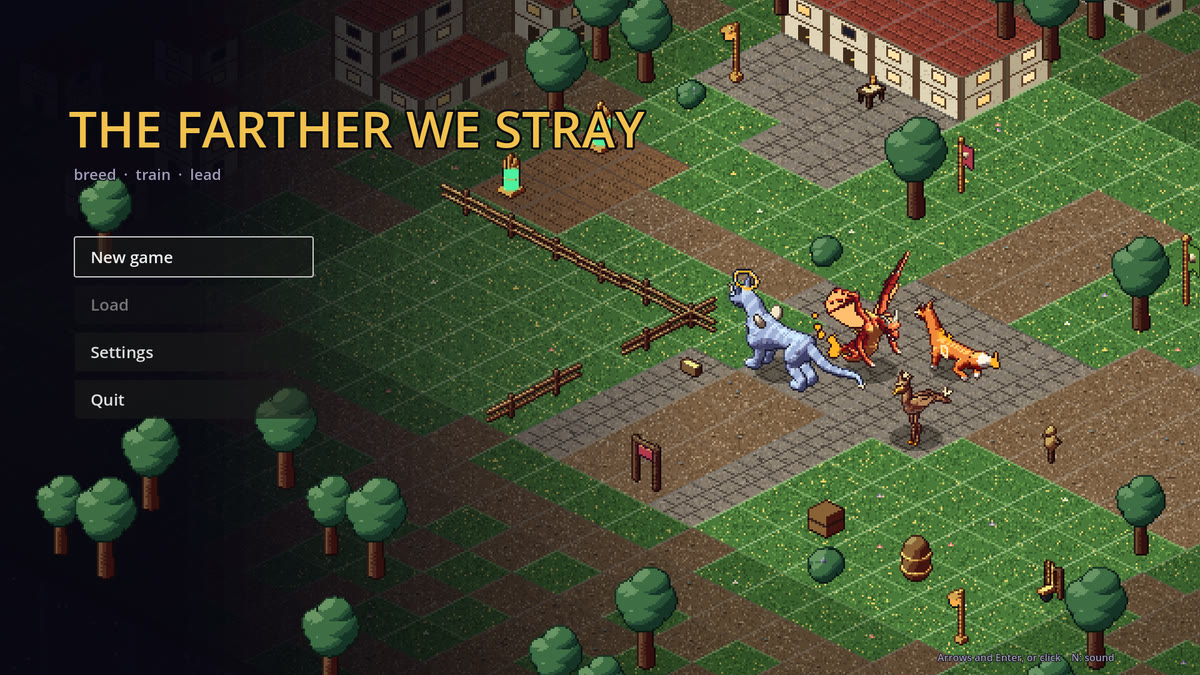
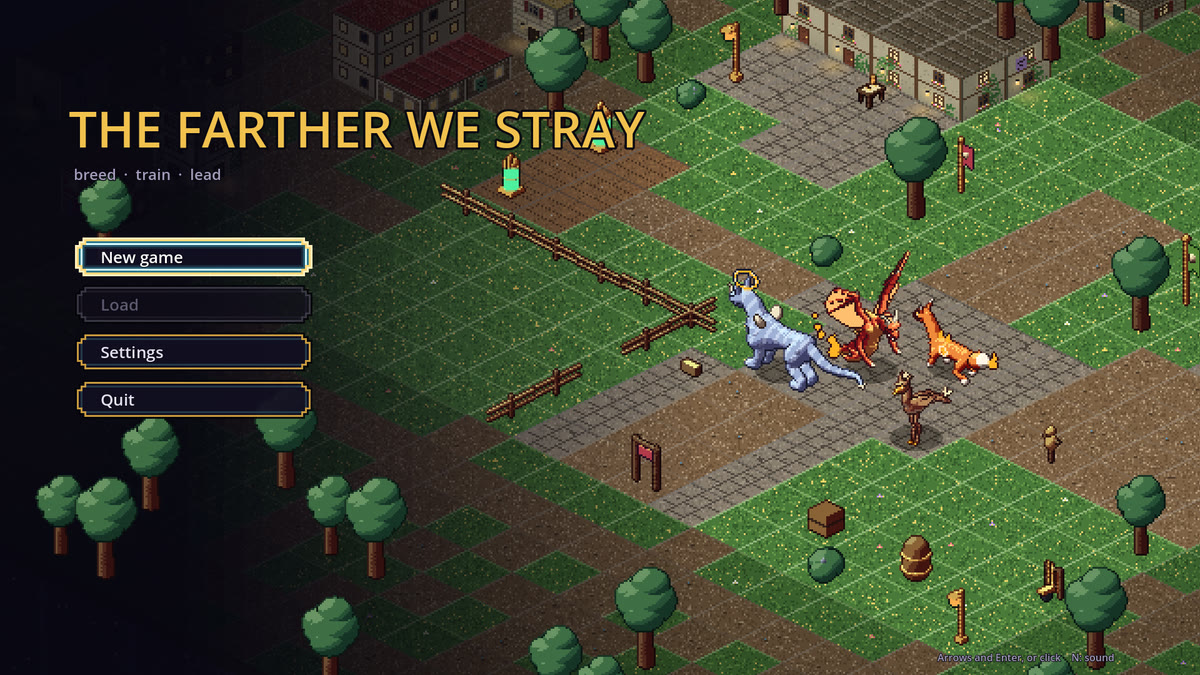
The Farther We Stray downloads for Windows too
Version 0.2.0 adds a Windows build: the page gets a Windows button (first on a computer, the
Android one first on a phone), steps for unzipping and running it, and the sizes of both. A
download the newest release lacks says it's coming. The title picture shows the new menus.

diff --git a/public/the-farther-we-stray/download/index.html b/public/the-farther-we-stray/download/index.html
@@ -6,14 +6,14 @@
     <title>Download The Farther We Stray</title>
     <meta
       name="description"
-      content="Download The Farther We Stray, a turn-based tactics game where you catch strays and breed, train and lead your beasts. Free, for Android."
+      content="Download The Farther We Stray, a turn-based tactics game where you catch strays and breed, train and lead your beasts. Free, for Windows and Android."
     />
 
     <!-- The link preview, for chat apps. -->
     <meta property="og:title" content="Play The Farther We Stray" />
     <meta
       property="og:description"
-      content="Catch strays, breed and train your beasts, and lead them into battle. A free tactics game for Android."
+      content="Catch strays, breed and train your beasts, and lead them into battle. A free tactics game for Windows and Android."
     />
     <meta property="og:type" content="website" />
     <meta property="og:url" content="https://ecec.dev/the-farther-we-stray/download" />
@@ -30,7 +30,7 @@
     <meta name="twitter:title" content="Play The Farther We Stray" />
     <meta
       name="twitter:description"
-      content="Catch strays, breed and train your beasts, and lead them into battle. A free tactics game for Android."
+      content="Catch strays, breed and train your beasts, and lead them into battle. A free tactics game for Windows and Android."
     />
     <meta
       name="twitter:image"
@@ -162,6 +162,20 @@
         outline: 3px solid var(--glow);
         outline-offset: 3px;
       }
+      /* The second platform's button: the same shape in the game's chem glow, so the two read
+         as a pair and neither looks like the "real" one. */
+      .big.second {
+        color: #062a33;
+        background: var(--glow);
+        border-color: #062a33;
+        box-shadow: 0 5px 0 #1a8fa8;
+      }
+      .big.second:hover {
+        box-shadow: 0 6px 0 #1a8fa8;
+      }
+      .big.second:active {
+        box-shadow: 0 1px 0 #1a8fa8;
+      }
       .big.soon {
         background: var(--card);
         color: var(--soft);
@@ -174,7 +188,7 @@
         font-size: 0.88rem;
         margin: 0 0 30px;
       }
-      /* Shown on a computer: the game is a phone app, so say where to open this page. */
+      /* Shown on anything that isn't Windows or Android (a Mac, an iPhone): say what it runs on. */
       .elsewhere {
         text-align: center;
         font-size: 0.92rem;
@@ -221,7 +235,9 @@
   </head>
   <body>
     <main class="wrap">
-      <p class="eyebrow">The Farther We Stray · free · Android · early build</p>
+      <p class="eyebrow">
+        The Farther We Stray · free · Windows and Android · early build
+      </p>
       <h1>Play <span>The Farther We Stray</span></h1>
       <p class="lede">
         Catch strays, breed and train your beasts, and lead them in turn-based battles on
@@ -237,20 +253,54 @@
         alt="The Farther We Stray title screen: the farmyard home base, with four beasts in the pens."
       />
 
-      <div class="buttons">
+      <!-- On a phone the Android button comes first (the script below swaps them). -->
+      <div class="buttons" id="buttons">
         <a
           class="big"
+          id="windows"
+          href="https://github.com/eclancy/TheFartherWeStray/releases/latest/download/TheFartherWeStray-windows.zip"
+        >
+          <span aria-hidden="true">💻</span> Download for Windows
+        </a>
+        <a
+          class="big second"
           id="android"
           href="https://github.com/eclancy/TheFartherWeStray/releases/latest/download/TheFartherWeStray-android.apk"
         >
           <span aria-hidden="true">📱</span> Download for Android
         </a>
       </div>
-      <p class="meta" id="meta">Free for Android phones</p>
+      <p class="meta" id="meta">Free for Windows and Android</p>
       <p class="elsewhere" id="elsewhere" hidden>
-        It's an Android app: open <b>ecec.dev/the-farther-we-stray/download</b> on your
-        phone to get it there.
+        It runs on Windows and Android for now. On an Android phone, open
+        <b>ecec.dev/the-farther-we-stray/download</b> there to get it.
       </p>
+
+      <section class="card" id="windows-card" aria-labelledby="windows-how">
+        <h2 id="windows-how">On Windows</h2>
+        <ol>
+          <li>
+            Click <b>Download for Windows</b> to get <b>TheFartherWeStray-windows.zip</b>.
+          </li>
+          <li>Right-click it and choose <b>Extract All</b>, somewhere like Documents.</li>
+          <li>
+            Open the <b>TheFartherWeStray</b> folder and run <b>TheFartherWeStray.exe</b>.
+            Keep the files beside it together: the game needs them.
+          </li>
+          <li>
+            Play with the mouse, or the keyboard: the arrows and Enter, and Esc to go
+            back.
+          </li>
+        </ol>
+        <p class="note">
+          <b>Windows might say "Windows protected your PC".</b> That's because this game
+          isn't from a big company. Click <b>More info</b>, then <b>Run anyway</b>.
+        </p>
+        <p class="note">
+          <b>Updates:</b> download the new zip and extract it over the old folder. Your
+          beasts and saves are kept elsewhere, so they stay.
+        </p>
+      </section>
 
       <section class="card" id="android-card" aria-labelledby="android-how">
         <h2 id="android-how">On an Android phone</h2>
@@ -279,7 +329,7 @@
       </section>
 
       <section class="card" aria-labelledby="controls">
-        <h2 id="controls">The controls</h2>
+        <h2 id="controls">Controls on a phone</h2>
         <ul>
           <li>
             The buttons sit at the sides of the screen, never over the game: the
@@ -309,35 +359,49 @@
       </footer>
     </main>
     <script>
-      // On a computer, say the download is for a phone.
-      if (!/Android/i.test(navigator.userAgent)) {
-        document.getElementById('elsewhere').hidden = false
+      // A phone sees its own download first; a computer that isn't Windows hears what it runs on.
+      const ua = navigator.userAgent
+      const android = /Android/i.test(ua)
+      if (android) {
+        const buttons = document.getElementById('buttons')
+        buttons.insertBefore(document.getElementById('android'), buttons.firstChild)
       }
-      // The version and size of the newest release. GitHub's API allows cross-site reads; if it
-      // is slow or rate-limited the line under the button just keeps its default wording. A 404,
-      // or a release without the APK, means nothing is published yet, so the button says so
-      // instead of linking to a missing file.
+      if (!android && !/Windows/i.test(ua))
+        document.getElementById('elsewhere').hidden = false
+      // The version and sizes of the newest release. GitHub's API allows cross-site reads; if it
+      // is slow or rate-limited the line under the buttons just keeps its default wording. A
+      // download the release doesn't have (or a 404: nothing published yet) says it's coming
+      // instead of linking to a missing file, and moves behind any that work.
       fetch('https://api.github.com/repos/eclancy/TheFartherWeStray/releases/latest')
         .then((r) => (r.ok || r.status === 404 ? r.json() : Promise.reject()))
         .then((release) => {
-          const apk = (release.assets || []).find(
-            (a) => a.name === 'TheFartherWeStray-android.apk',
-          )
-          if (!apk) {
-            const button = document.getElementById('android')
+          const assets = release.assets || []
+          const files = [
+            ['windows', 'Windows', 'TheFartherWeStray-windows.zip'],
+            ['android', 'Android', 'TheFartherWeStray-android.apk'],
+          ]
+          const sizes = []
+          for (const [id, label, name] of files) {
+            const file = assets.find((a) => a.name === name)
+            if (file) {
+              sizes.push(label + ' ' + Math.round(file.size / 1048576) + ' MB')
+              continue
+            }
+            const button = document.getElementById(id)
             button.classList.add('soon')
+            button.classList.remove('second')
             button.removeAttribute('href')
-            button.innerHTML = '<span aria-hidden="true">⏳</span> Coming soon'
-            document.getElementById('android-card').remove()
-            document.getElementById('meta').textContent =
-              'The first version is on its way'
-            return
+            button.innerHTML =
+              '<span aria-hidden="true">⏳</span> ' + label + ': coming soon'
+            document.getElementById(id + '-card').remove()
+            document.getElementById('buttons').appendChild(button)
           }
           const version = String(release.tag_name || '').replace(/^v/, '')
-          document.getElementById('meta').textContent =
-            (version ? 'Version ' + version + ' · ' : '') +
-            Math.round(apk.size / 1048576) +
-            ' MB · free'
+          document.getElementById('meta').textContent = sizes.length
+            ? (version ? 'Version ' + version + ' · ' : '') +
+              sizes.join(' · ') +
+              ' · free'
+            : 'The first version is on its way'
         })
         .catch(() => {})
     </script>
